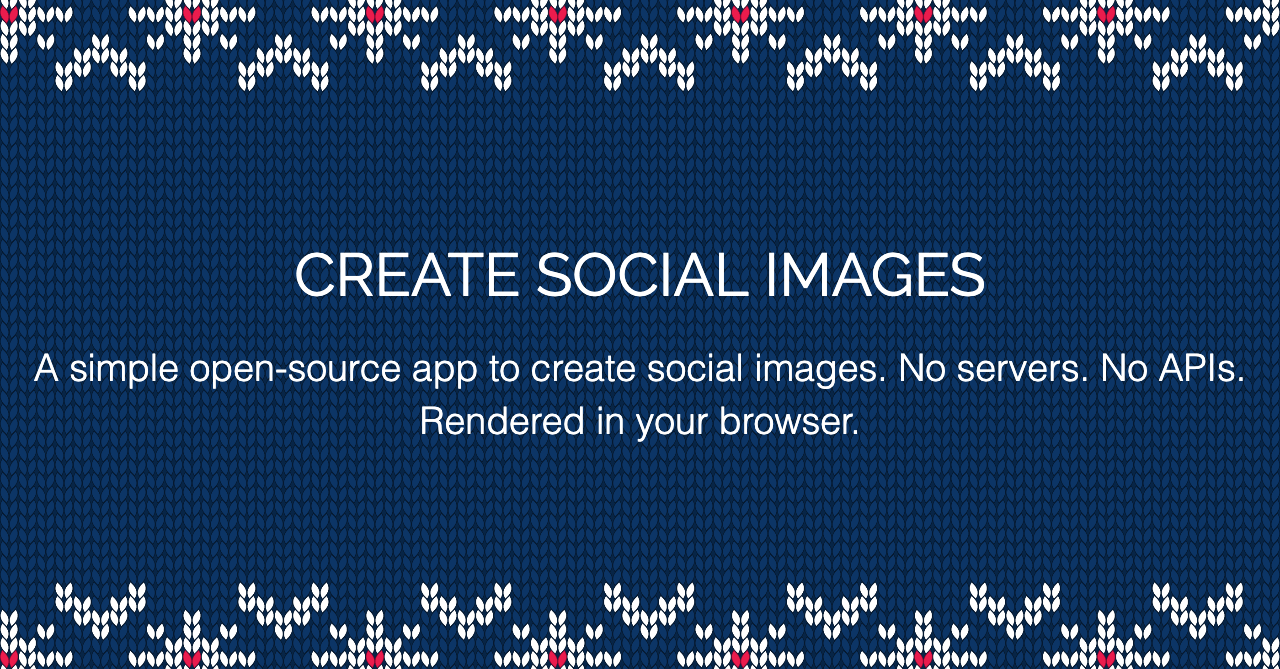
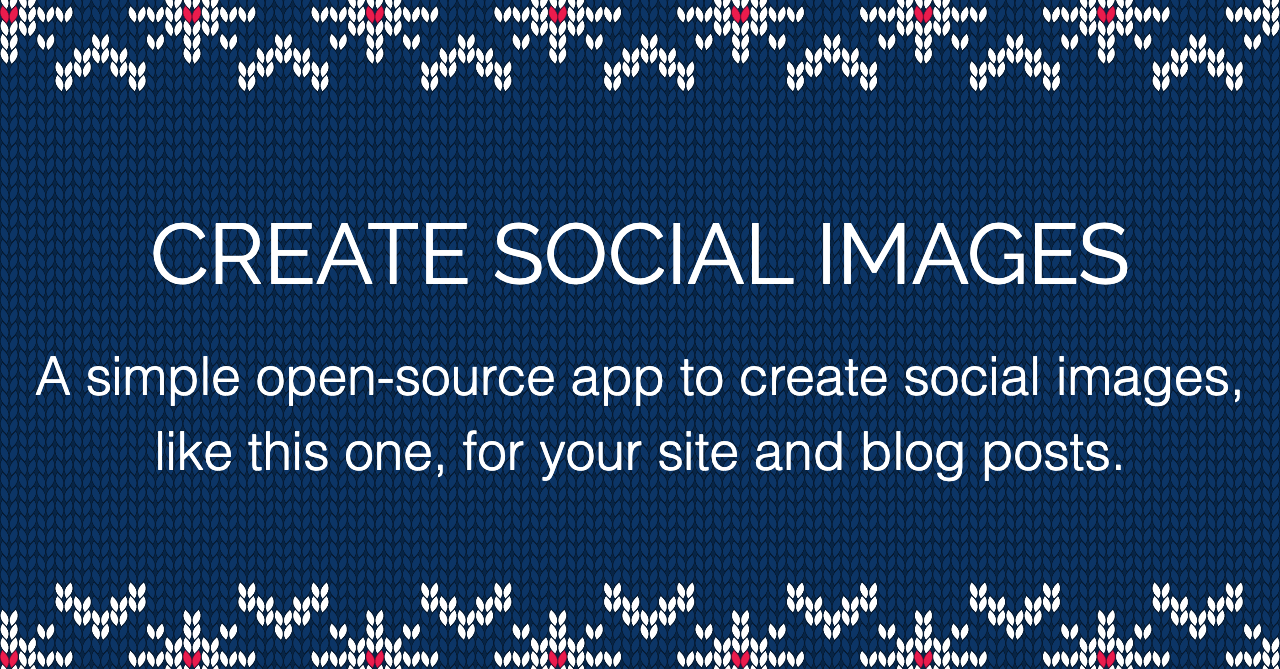
.

Changed region(s): [[0.0312, 0.5082, 0.9688, 0.7175], [0.125, 0.3288, 0.9062, 0.4484], [0.0938, 0.3587, 0.125, 0.3886]]

diff --git a/src/templates/template-factory.ts b/src/templates/template-factory.ts
@@ -43,13 +43,13 @@ export const templateList: TemplateInfo[] = [
     preview: '/images/swyx-preview.jpg'
   },
   {
-    type: 'author',
-    name: 'Author',
-    preview: '/images/author-preview.jpg'
-  },
-  {
     type: 'sketchy',
     name: 'Sketchy',
     preview: '/images/sketchy-preview.jpg'
+  },
+  {
+    type: 'author',
+    name: 'Author',
+    preview: '/images/author-preview.jpg'
   }
 ];

diff --git a/src/main-app.ts b/src/main-app.ts
@@ -18,7 +18,7 @@ export class MainApp extends LitElement {
   @property() private currentTemplate = templateList[0].type;
   @property() private data: PageData = {
     bgColor: '#fff',
-    fontSize: 60,
+    fontSize: 64,
     subtitle: '',
     author: '',
     textColor: '#000',
